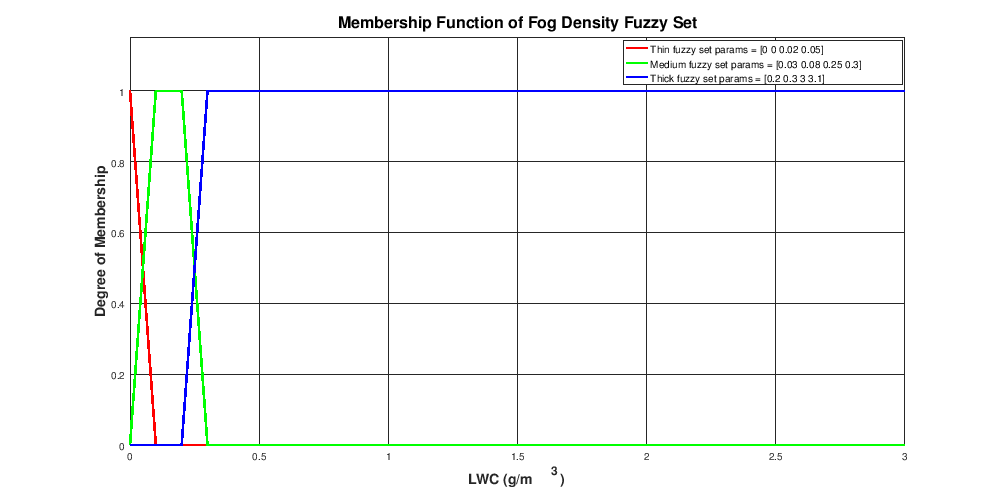
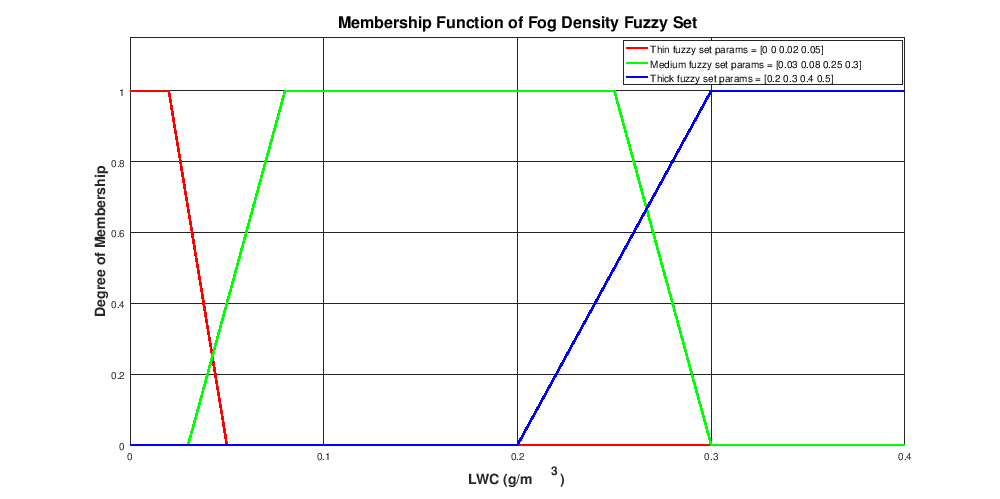
Reduce range for beautiful plot

diff --git a/fuzzy-logic/global_configs.m b/fuzzy-logic/global_configs.m
@@ -17,7 +17,7 @@ global FogDensity;
 FogDensity.fuzzy_sets = {"Thin"; "Medium"; "Thick"};
 FogDensity.Thin.params = [0 0 0.02 0.05];
 FogDensity.Medium.params = [0.03 0.08 0.25 0.3];
-FogDensity.Thick.params = [0.20 0.3 3.0 3.1];
+FogDensity.Thick.params = [0.20 0.3 0.4 0.5];
 
 % membership functions of brightness fuzzy sets
 global Brightness;

diff --git a/fuzzy-logic/plot_fog_density_membership_functions.m b/fuzzy-logic/plot_fog_density_membership_functions.m
@@ -1,7 +1,7 @@
 global_configs;
 save_figure_name = "membership_function_fog_density_fuzzy_sets.png";
 
-x = 0:0.1:3;
+x = 0:0.01:0.4;
 Thin = trapezoidal_shaped (x, FogDensity.Thin.params, e);
 Medium = trapezoidal_shaped (x, FogDensity.Medium.params, e);
 Thick = trapezoidal_shaped (x, FogDensity.Thick.params, e);
